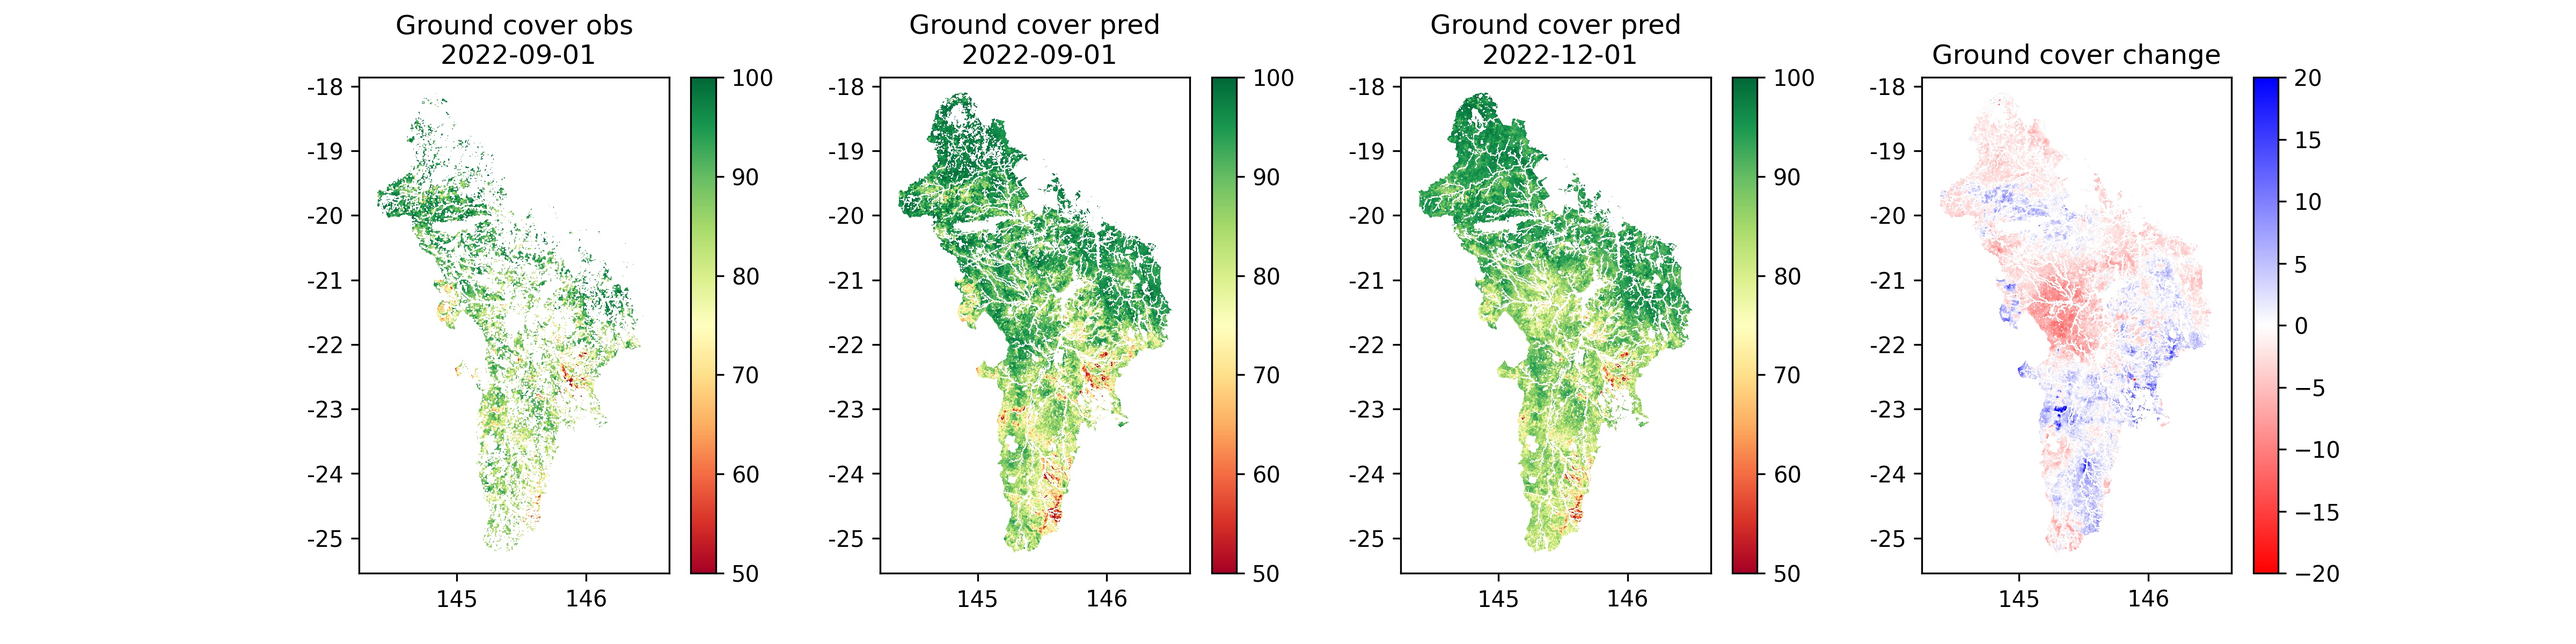
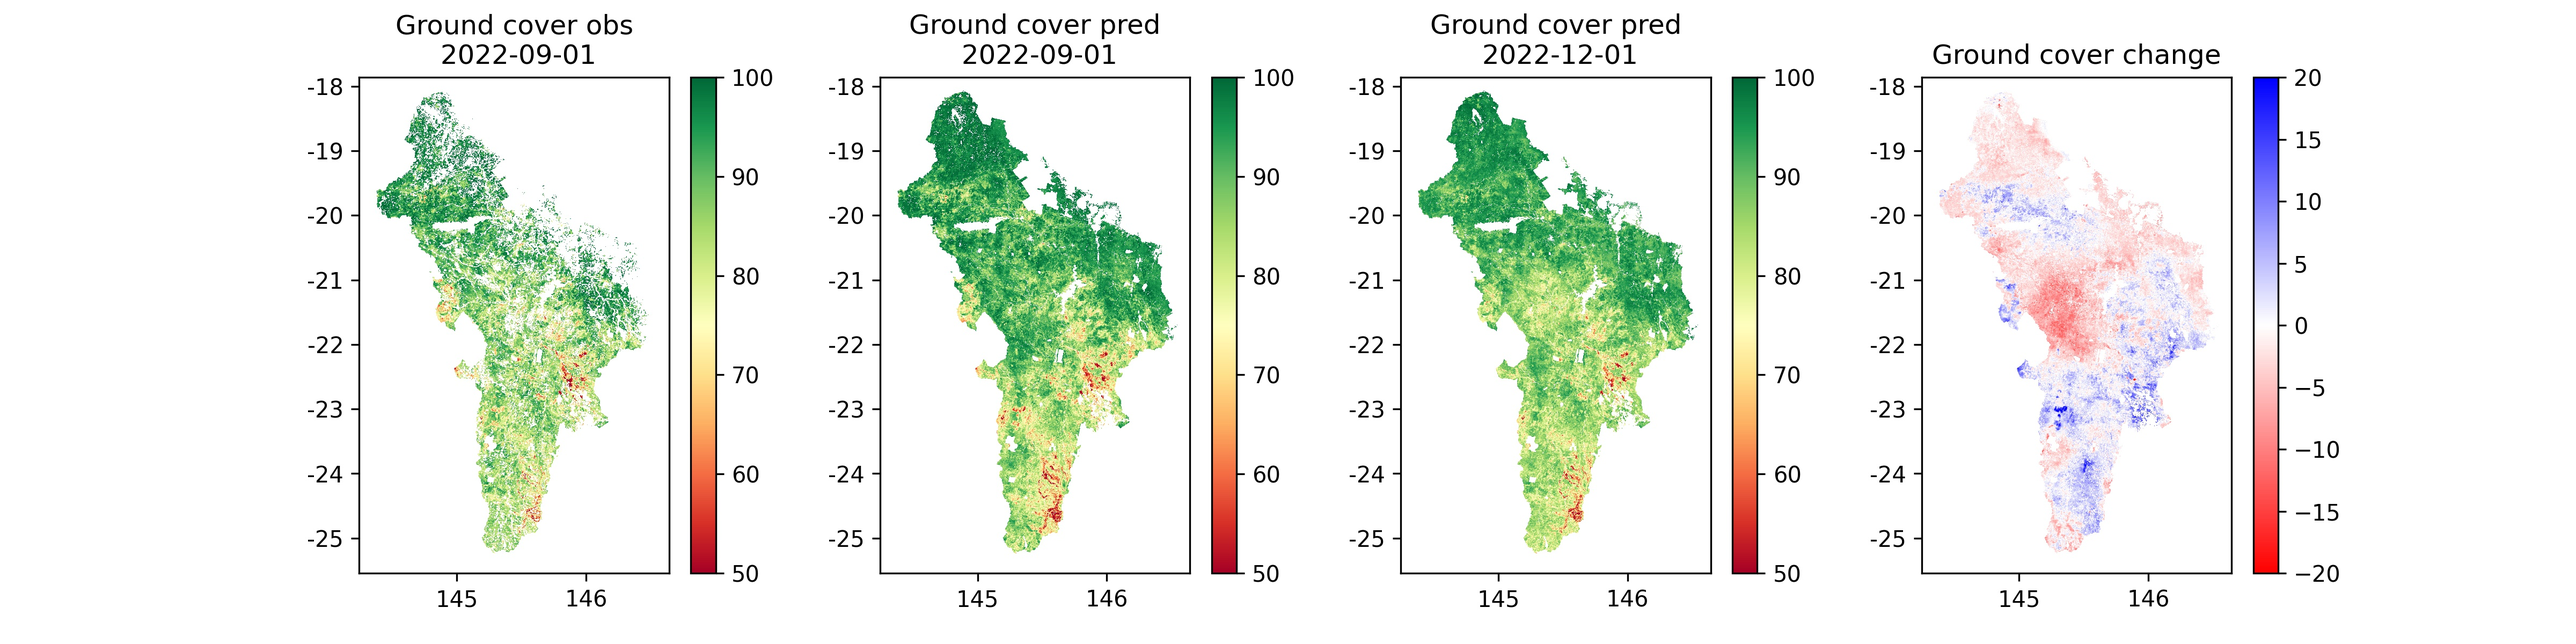
Fix normalization problem in model_mosaic

diff --git a/scripts/.ipynb_checkpoints/model_mosaic-checkpoint.py b/scripts/.ipynb_checkpoints/model_mosaic-checkpoint.py
@@ -372,7 +372,8 @@ def mainRoutine():
 
     fig, axes = plt.subplots(1, 4, figsize = [16, 4])
     ax1 = axes[0]
-    im1 = show(last_obs.squeeze(), transform=transform_pred, vmin=50, vmax=100,  cmap='RdYlGn', ax=ax1)
+    im1 = show(last_obs.squeeze(), transform=transform_pred, interpolation='nearest',
+               vmin=50, vmax=100,  cmap='RdYlGn', ax=ax1)
     ax1.set_title('Ground cover obs\n {}'.format(str_last_season))
     x_ticks = ax1.get_xticks()
     y_ticks = ax1.get_yticks()
@@ -387,19 +388,22 @@ def mainRoutine():
     ax1.set_yticklabels(lat_labels)
     plt.colorbar(im1.get_images()[0], ax=ax1)
     ax2 = axes[1]
-    im2 = show(last_pred.squeeze(), transform=transform_pred, vmin=50, vmax=100,  cmap='RdYlGn', ax=ax2)
+    im2 = show(last_pred.squeeze(), transform=transform_pred, interpolation='nearest',
+               vmin=50, vmax=100,  cmap='RdYlGn', ax=ax2)
     plt.colorbar(im2.get_images()[0], ax=ax2)
     ax2.set_title('Ground cover pred\n {}'.format(str_last_season))
     ax2.set_xticklabels(lon_labels)
     ax2.set_yticklabels(lat_labels)
     ax3 = axes[2]
-    im3 = show(new_pred.squeeze(), transform=transform_pred, vmin=50, vmax=100,  cmap='RdYlGn', ax=ax3)
+    im3 = show(new_pred.squeeze(), transform=transform_pred, interpolation='nearest',
+               vmin=50, vmax=100,  cmap='RdYlGn', ax=ax3)
     plt.colorbar(im3.get_images()[0], ax=ax3)
     ax3.set_title('Ground cover pred\n {}'.format(str_next_season))
     ax3.set_xticklabels(lon_labels)
     ax3.set_yticklabels(lat_labels)
     ax4 = axes[3]
-    im4 = show(diff.squeeze(), transform=transform_pred, vmin=-20, vmax=20,  cmap='bwr_r', ax=ax4)
+    im4 = show(diff.squeeze(), transform=transform_pred, interpolation='nearest',
+               vmin=-20, vmax=20,  cmap='bwr_r', ax=ax4)
     ax4.set_title('Ground cover change')
     ax4.set_xticklabels(lon_labels)
     ax4.set_yticklabels(lat_labels)

diff --git a/scripts/model_mosaic.py b/scripts/model_mosaic.py
@@ -372,7 +372,8 @@ def mainRoutine():
 
     fig, axes = plt.subplots(1, 4, figsize = [16, 4])
     ax1 = axes[0]
-    im1 = show(last_obs.squeeze(), transform=transform_pred, vmin=50, vmax=100,  cmap='RdYlGn', ax=ax1)
+    im1 = show(last_obs.squeeze(), transform=transform_pred, interpolation='nearest',
+               vmin=50, vmax=100,  cmap='RdYlGn', ax=ax1)
     ax1.set_title('Ground cover obs\n {}'.format(str_last_season))
     x_ticks = ax1.get_xticks()
     y_ticks = ax1.get_yticks()
@@ -387,19 +388,22 @@ def mainRoutine():
     ax1.set_yticklabels(lat_labels)
     plt.colorbar(im1.get_images()[0], ax=ax1)
     ax2 = axes[1]
-    im2 = show(last_pred.squeeze(), transform=transform_pred, vmin=50, vmax=100,  cmap='RdYlGn', ax=ax2)
+    im2 = show(last_pred.squeeze(), transform=transform_pred, interpolation='nearest',
+               vmin=50, vmax=100,  cmap='RdYlGn', ax=ax2)
     plt.colorbar(im2.get_images()[0], ax=ax2)
     ax2.set_title('Ground cover pred\n {}'.format(str_last_season))
     ax2.set_xticklabels(lon_labels)
     ax2.set_yticklabels(lat_labels)
     ax3 = axes[2]
-    im3 = show(new_pred.squeeze(), transform=transform_pred, vmin=50, vmax=100,  cmap='RdYlGn', ax=ax3)
+    im3 = show(new_pred.squeeze(), transform=transform_pred, interpolation='nearest',
+               vmin=50, vmax=100,  cmap='RdYlGn', ax=ax3)
     plt.colorbar(im3.get_images()[0], ax=ax3)
     ax3.set_title('Ground cover pred\n {}'.format(str_next_season))
     ax3.set_xticklabels(lon_labels)
     ax3.set_yticklabels(lat_labels)
     ax4 = axes[3]
-    im4 = show(diff.squeeze(), transform=transform_pred, vmin=-20, vmax=20,  cmap='bwr_r', ax=ax4)
+    im4 = show(diff.squeeze(), transform=transform_pred, interpolation='nearest',
+               vmin=-20, vmax=20,  cmap='bwr_r', ax=ax4)
     ax4.set_title('Ground cover change')
     ax4.set_xticklabels(lon_labels)
     ax4.set_yticklabels(lat_labels)
